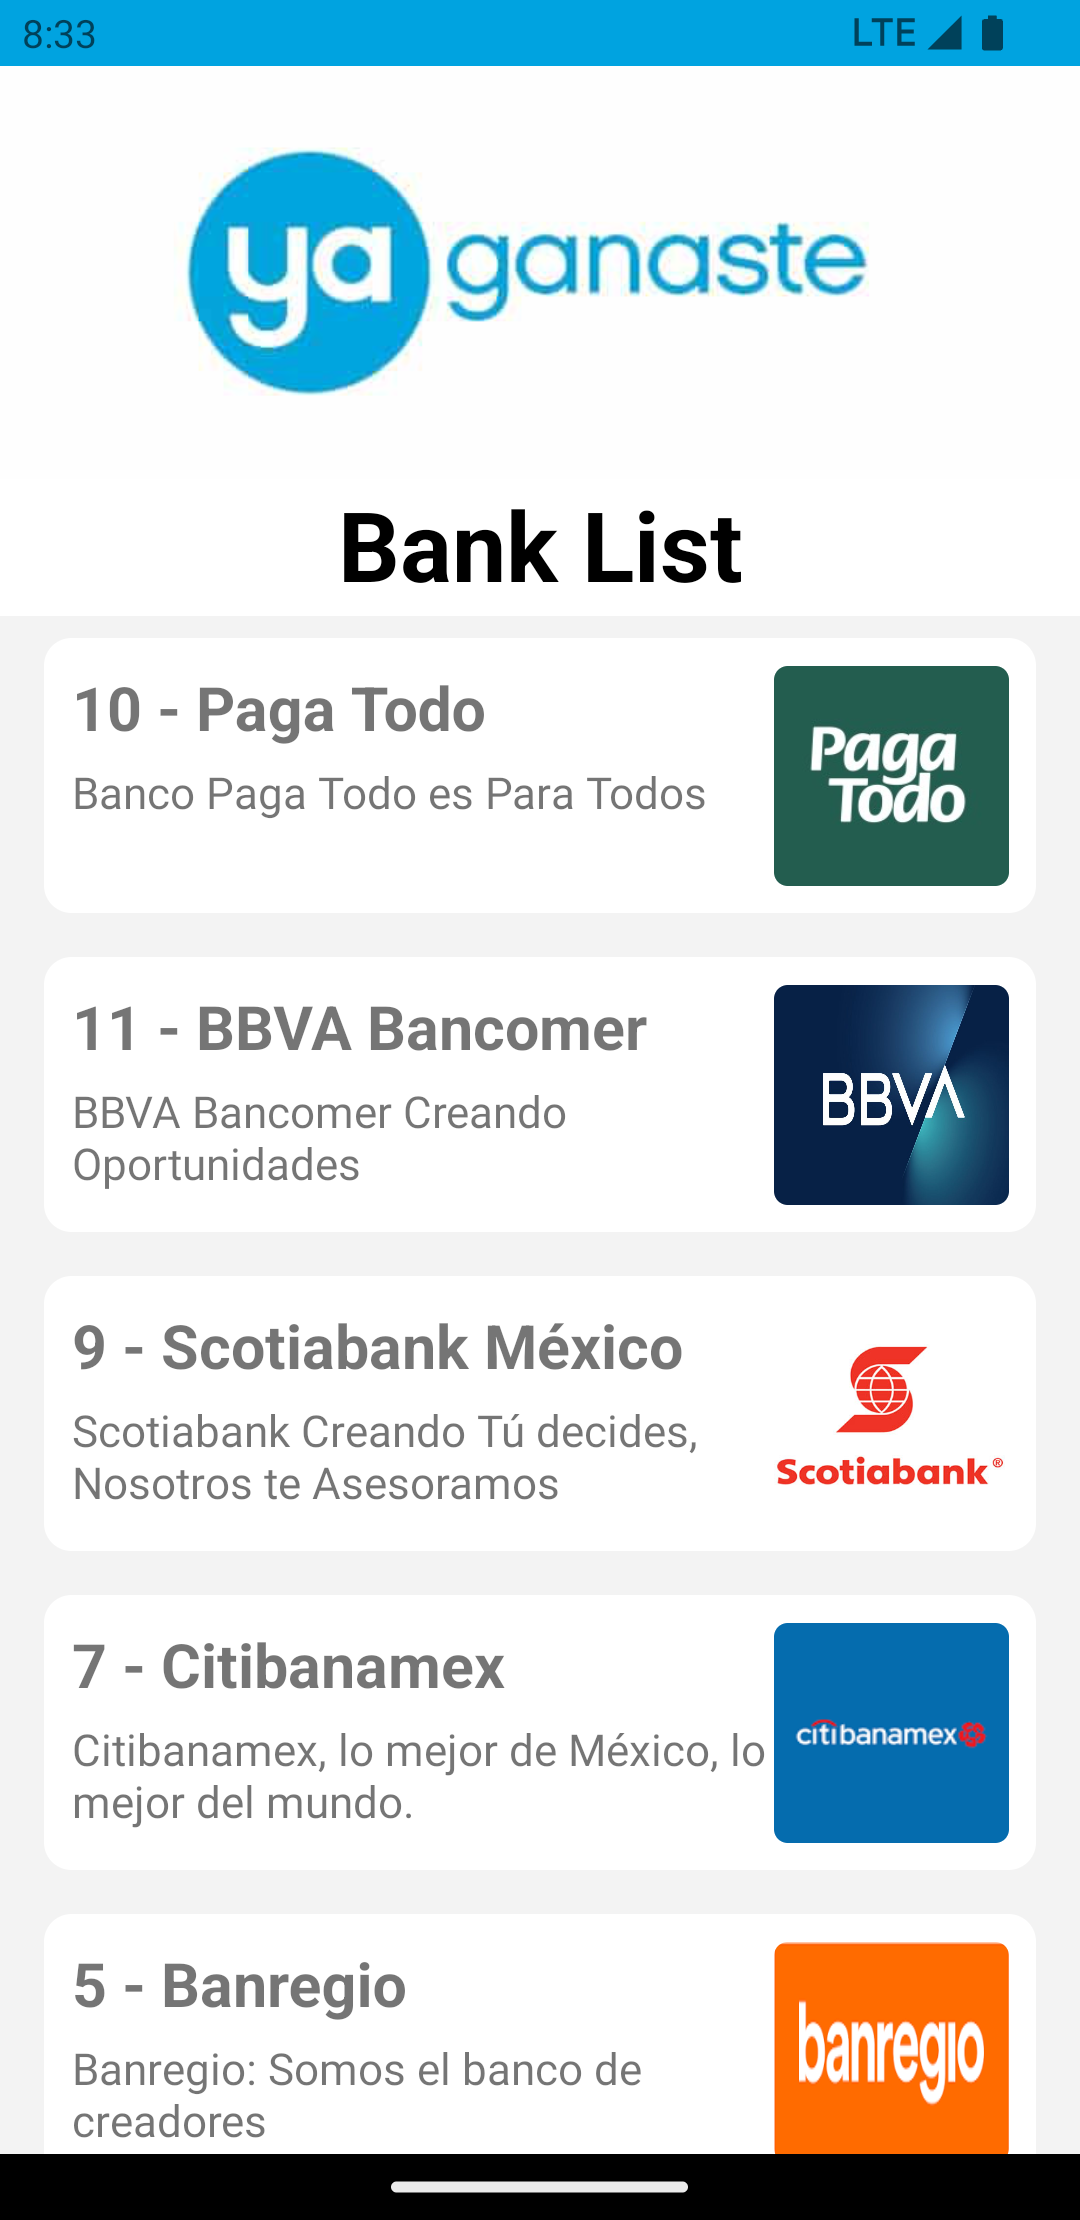
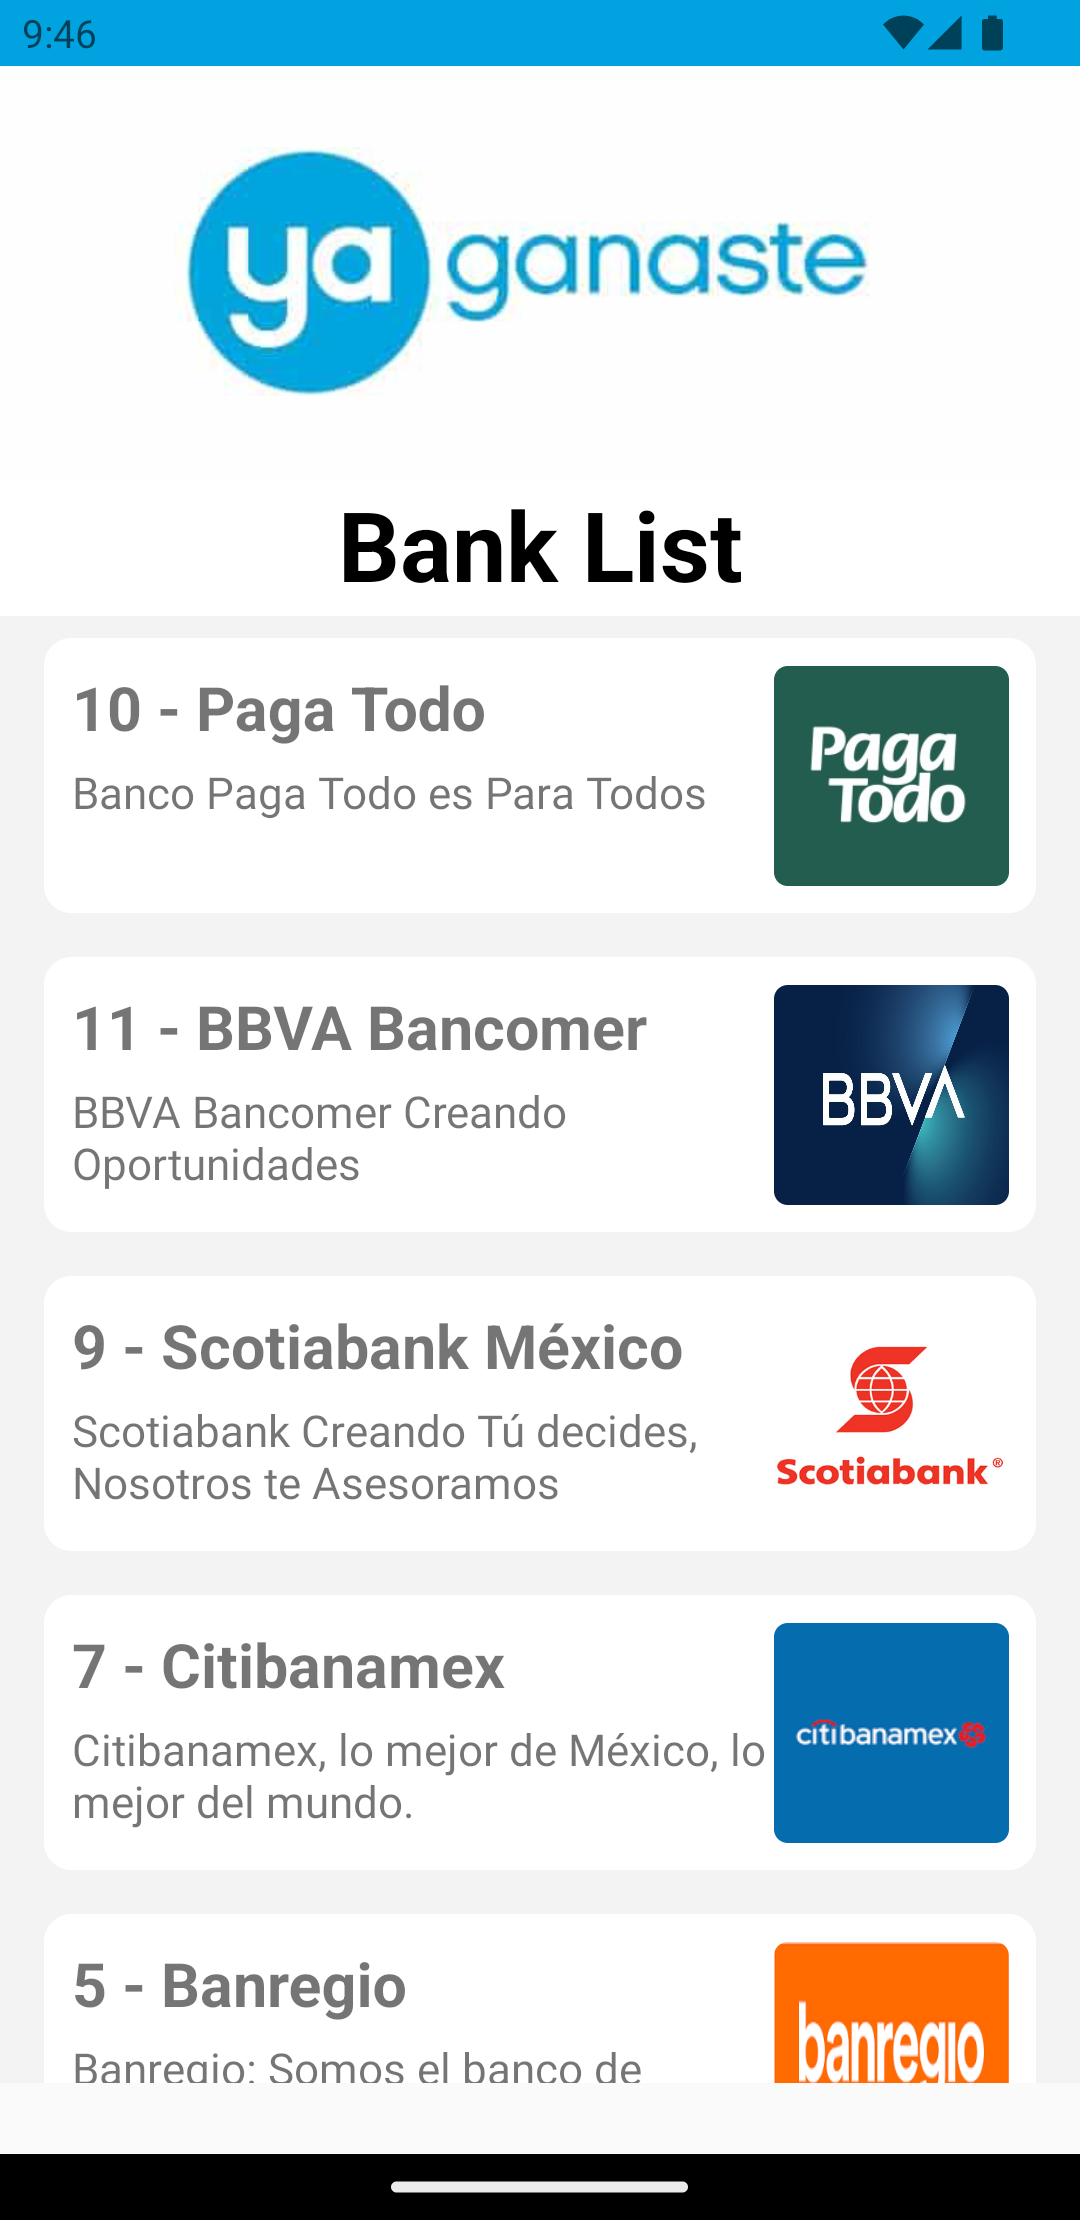
8. Update assets and Readme

diff --git a/App.tsx b/App.tsx
@@ -17,13 +17,14 @@ import { theme } from './src/assets/colors/theme';
 
 const App = () => {
   const isDarkMode = useColorScheme() === 'dark';
+  const backgroundStyle = { backgroundColor: false ? theme.darker : theme.primary };
   return (
     <Provider store={store}>
       <PersistGate loading={null} persistor={persistor}>
-        <SafeAreaView>
+        <SafeAreaView style={backgroundStyle}>
           <StatusBar
             barStyle={isDarkMode ? 'light-content' : 'dark-content'}
-            backgroundColor={isDarkMode ? theme.darker : theme.primary}
+            backgroundColor={backgroundStyle.backgroundColor}
           />
           <Header />
           <Body />

diff --git a/src/components/Body/Body.Style.ts b/src/components/Body/Body.Style.ts
@@ -1,13 +1,15 @@
-import { StyleSheet } from 'react-native';
+import { StyleSheet, Dimensions } from 'react-native';
 
 import { theme } from '../../assets/colors/theme';
+
+const { height: windowHeight } = Dimensions.get('window');
 
 const style = StyleSheet.create({
   container: {
     flexDirection: 'row',
     backgroundColor: theme.lighter,
     width: '100%',
-    height: '100%',
+    height: windowHeight - 250,
   },
   item: {
     backgroundColor: theme.white,

diff --git a/src/components/Body/Body.tsx b/src/components/Body/Body.tsx
@@ -48,6 +48,7 @@ export const Body = () => {
           data={banksData}
           renderItem={({ item }) => <Item {...item} />}
           keyExtractor={(item, index) => `${index}-${item.bankName}`}
+          showsVerticalScrollIndicator={false}
         />
       )}
     </View>

diff --git a/README.md b/README.md
@@ -5,16 +5,20 @@ Initial development of YaGanaste React Native mobile app
 <p align="center" >
   <kbd>
     <img
-      src="https://github.com/betancourtYeison/NativeChallenge/blob/master/src/assets/images/iOS.png"
+      src="https://github.com/betancourtYeison/NativeChallenge/blob/master/src/assets/images/iOS.png?raw=true"
       title="iOS"
       float="left"
+      width="235"
+      height="511"
     >
   </kbd>
   <kbd>
     <img
-      src="https://github.com/betancourtYeison/NativeChallenge/blob/master/src/assets/images/Android.png"
+      src="https://github.com/betancourtYeison/NativeChallenge/blob/master/src/assets/images/Android.png?raw=true"
       title="Android"
-      float="left"
+      float="right"
+      width="235"
+      height="511"
     >
   </kbd>
   <br>
@@ -52,6 +56,8 @@ With significant Android native changes, it is sometimes necessary to clean the 
 ## Testing
 
 The app is tested in a variety of ways with unit and integration testing.
+
+- `yarn test` - Test components
 
 ### Jest & Snapshots
 
